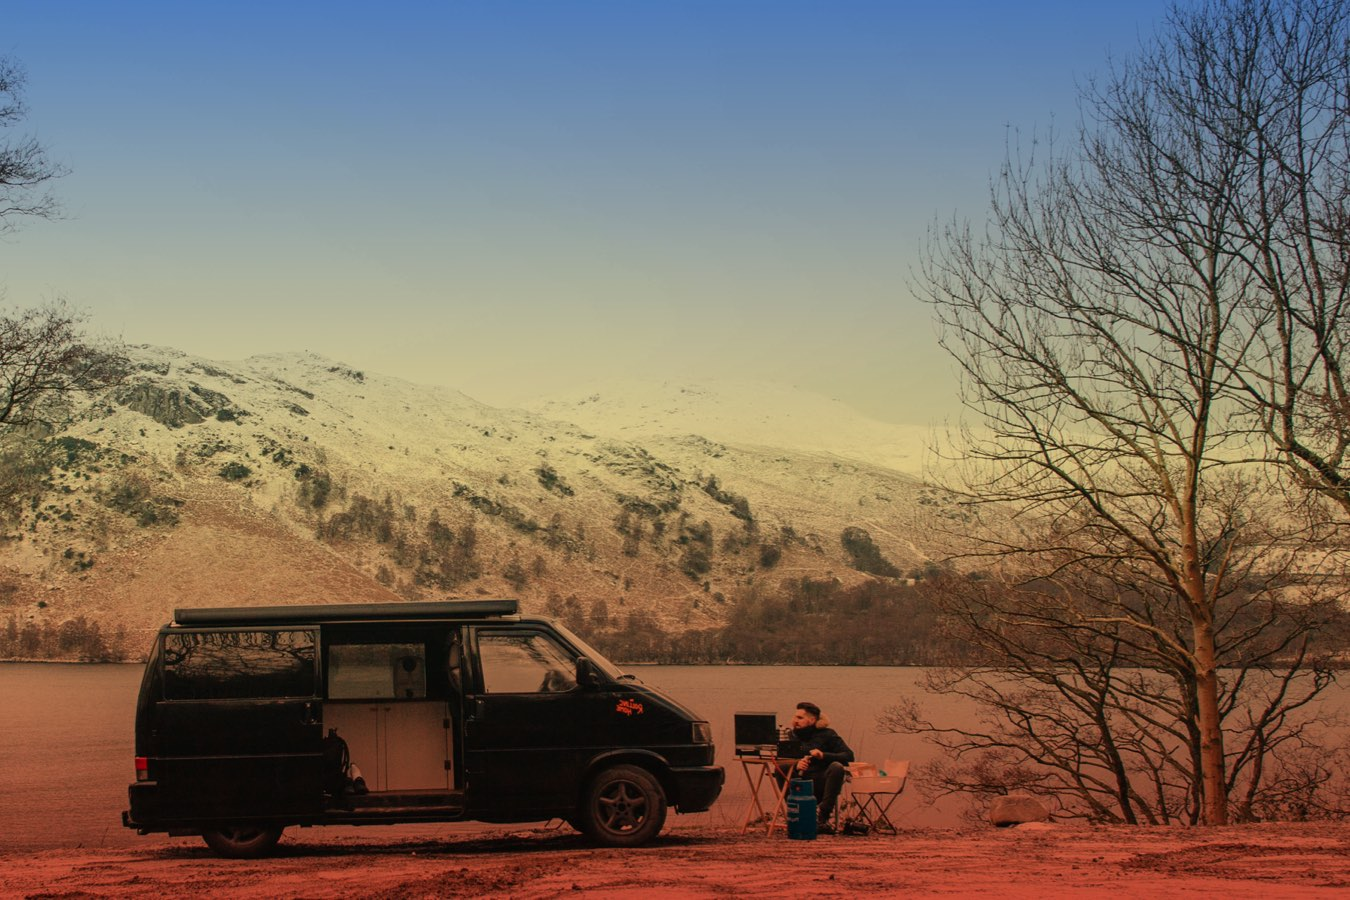
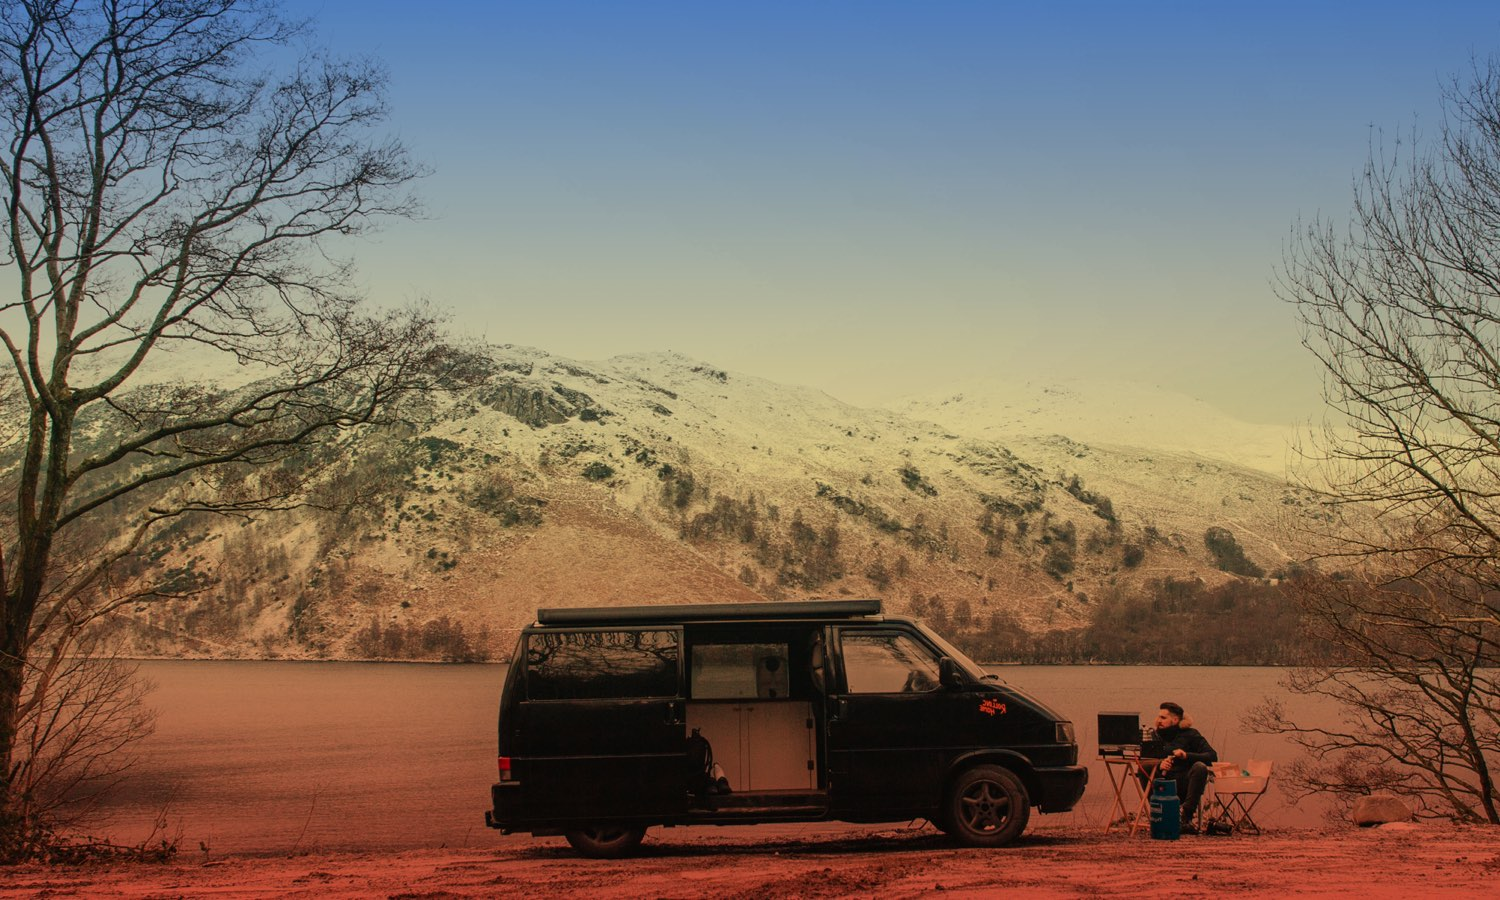
home images

diff --git a/assets/css/app.scss b/assets/css/app.scss
@@ -4,6 +4,7 @@
 @import "type";
 @import "icons";
 /* 2. begin customization -------- */
+$root-url:                    'http://127.0.0.1:8000';
 /* theme color */
 $black:                       #322A1D;
 $body-color:                  #322A1D;
@@ -35,6 +36,7 @@ $font-family-alt2:            'Basier',Helvetica,Arial,sans-serif;
 $font-weight-normal:          normal;
 $font-weight-bold:            bold;
 
+$enable-responsive-font-sizes:'true';
 $h1-font-size:                4.3rem;
 $h2-font-size:                1.75rem;
 $h3-font-size:                1.45rem;
@@ -219,7 +221,7 @@ input[type="search"]::-ms-clear {
         z-index: 100;
         width: 168px;
         height: 400px;
-        background:transparent url('http://127.0.0.1:8000/images/track.svg') no-repeat left top;
+        background:transparent url($root-url+'/images/track.svg') no-repeat left top;
       }
   }
 
@@ -256,6 +258,68 @@ input[type="search"]::-ms-clear {
       max-width: 100%;
       height: 100%;
     }
+}
+/* images bg */
+.container-image{
+  background-repeat:no-repeat;
+  padding-top:25px;padding-bottom:25px;
+  @include media-breakpoint-up(md) {padding-top:160px;padding-bottom:160px;}
+  @media (min-width: 2240px) {background-size:cover;}
+  &.container-image-right{
+    background-position:92vw bottom;
+    background-size:auto;
+    @include media-breakpoint-up(md) {background-position:45vw bottom;background-size:auto 100%;}
+  }
+  &.container-image-left{
+    background-position:calc(100% - 92vw) bottom;
+    background-size:auto;
+    @include media-breakpoint-up(md) {background-position:calc(100% - 45vw) bottom;background-size:auto 100%;}
+  }
+  .container-image-content{}
+}
+.bg-blue {
+  background-color: $blue !important;
+  text-color:$white!important;
+}
+.bg-orange {
+  background-color: $orange !important;
+  * {text-color:$white!important;}
+}
+.bg-gray {
+  background-color: $gray-600 !important;
+  * {text-color:$white!important;}
+}
+.bg-yellow {
+  background-color: $yellow !important;
+}
+
+#home-hero{
+  background-image: url($root-url+'/images/landscape1-m.jpg');
+  @include media-breakpoint-up(md) {
+    background-image: url($root-url+'/images/landscape1-m.jpg');
+  }
+  @include media-breakpoint-up(lg) {
+    background-image: url($root-url+'/images/landscape1-l.jpg');
+  }
+
+}
+#home-why{
+  background-image: url($root-url+'/images/landscape2-m.jpg');
+  @include media-breakpoint-up(md) {
+    background-image: url($root-url+'/images/landscape2-m.jpg');
+  }
+  @include media-breakpoint-up(lg) {
+    background-image: url($root-url+'/images/landscape2-l.jpg');
+  }
+}
+#home-subscribe{
+  background-image: url($root-url+'/images/landscape3-m.jpg');
+  @include media-breakpoint-up(md) {
+    background-image: url($root-url+'/images/landscape3-m.jpg');
+  }
+  @include media-breakpoint-up(lg) {
+    background-image: url($root-url+'/images/landscape3-l.jpg');
+  }
 }
 /* card */
 .card {
